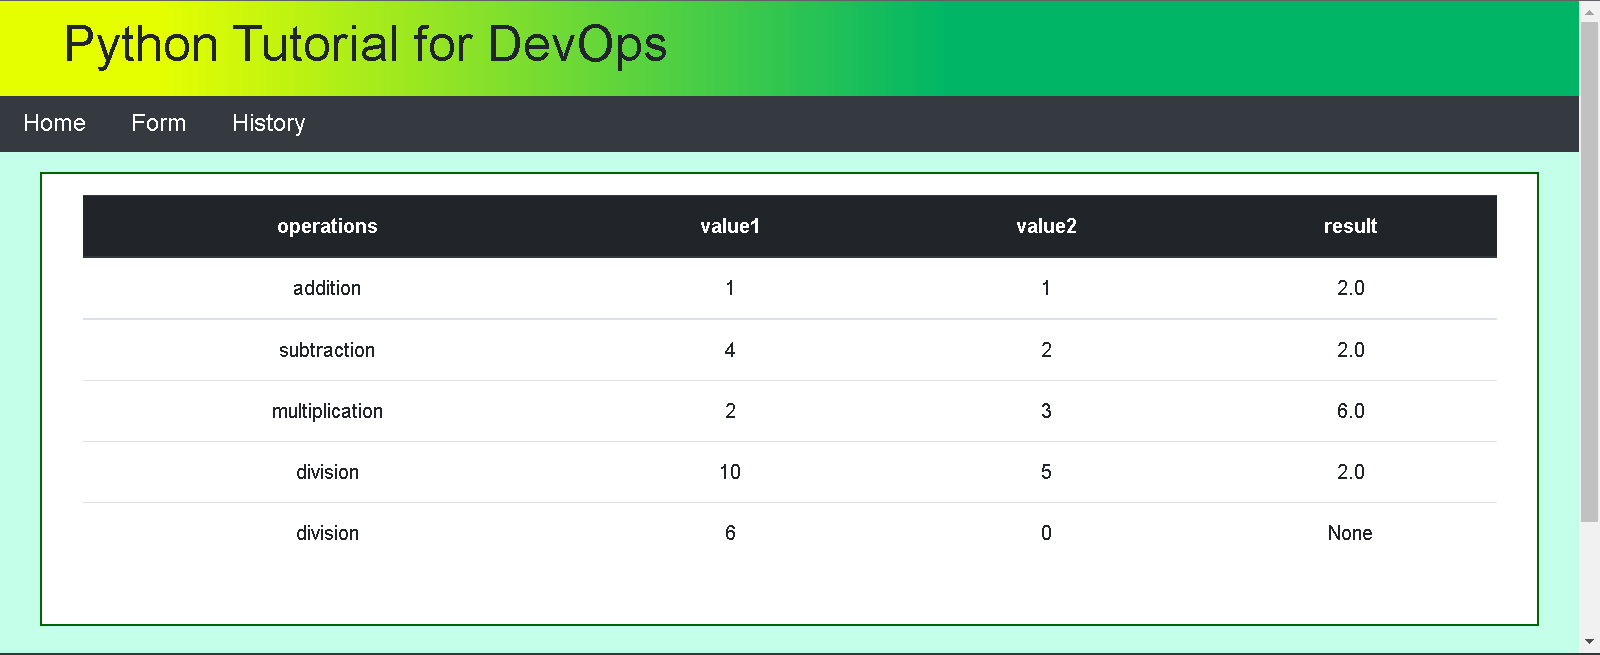
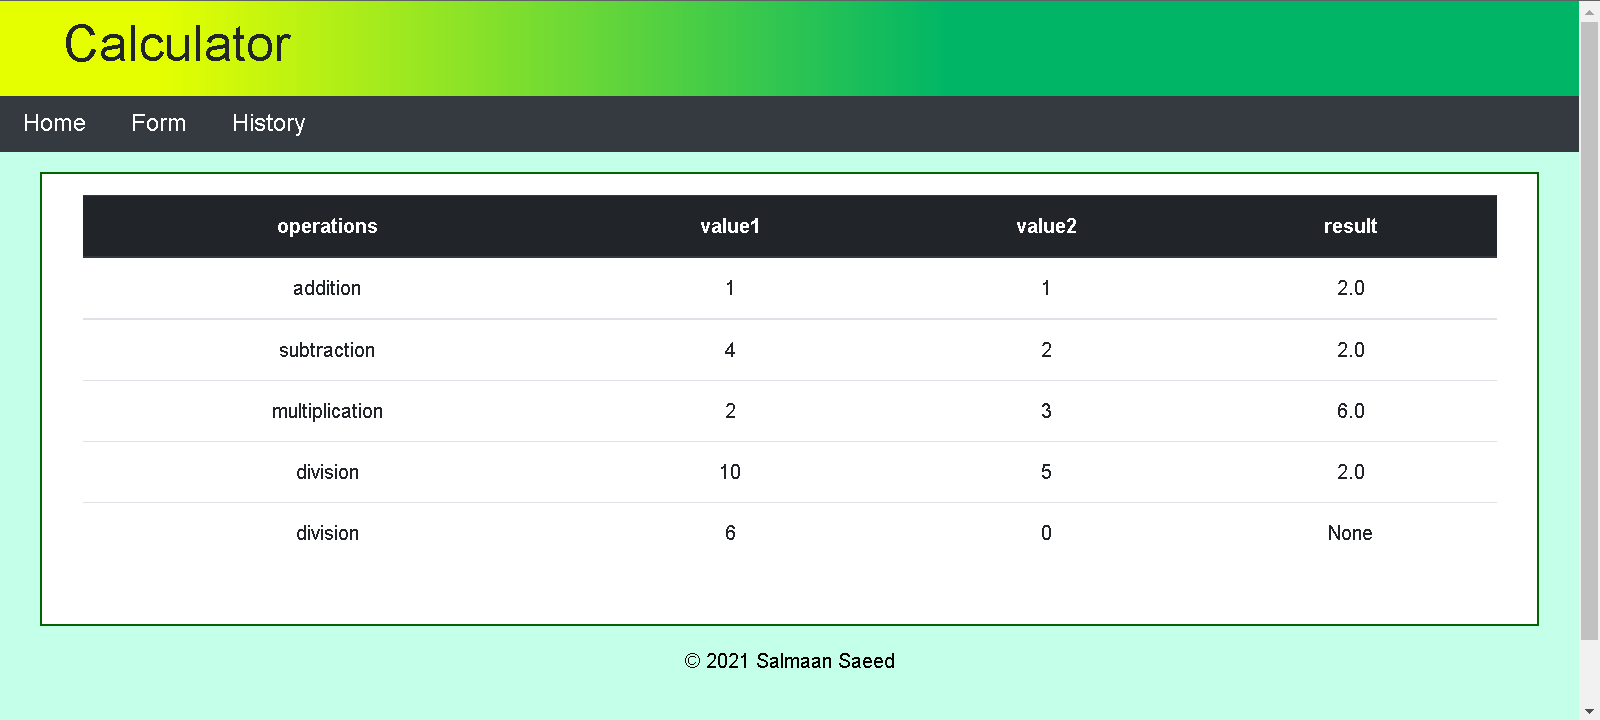
Updated the website's main title and title tab

diff --git a/app/templates/base.html b/app/templates/base.html
@@ -3,7 +3,7 @@
     <head>
         {% block head %}
         <!-- Browser tab's title -->
-        <title> DevOps Python Tutorial  </title>
+        <title>Calculator</title>
         <!-- Browser tab icon -->
         <link rel="shortcut icon" href="../static/images/devops.ico">
         <!-- Bootstrap 4 -->
@@ -20,7 +20,7 @@
     <body>
         <header>
             {% block navigation %}
-            <h1>Python Tutorial for DevOps</h1>
+            <h1>Calculator</h1>
             <!-- Navigation Bar -->
             <nav class="navbar navbar-expand navbar-dark bg-dark m">
                 <div class="collapse navbar-collapse" id="navbarNav">
